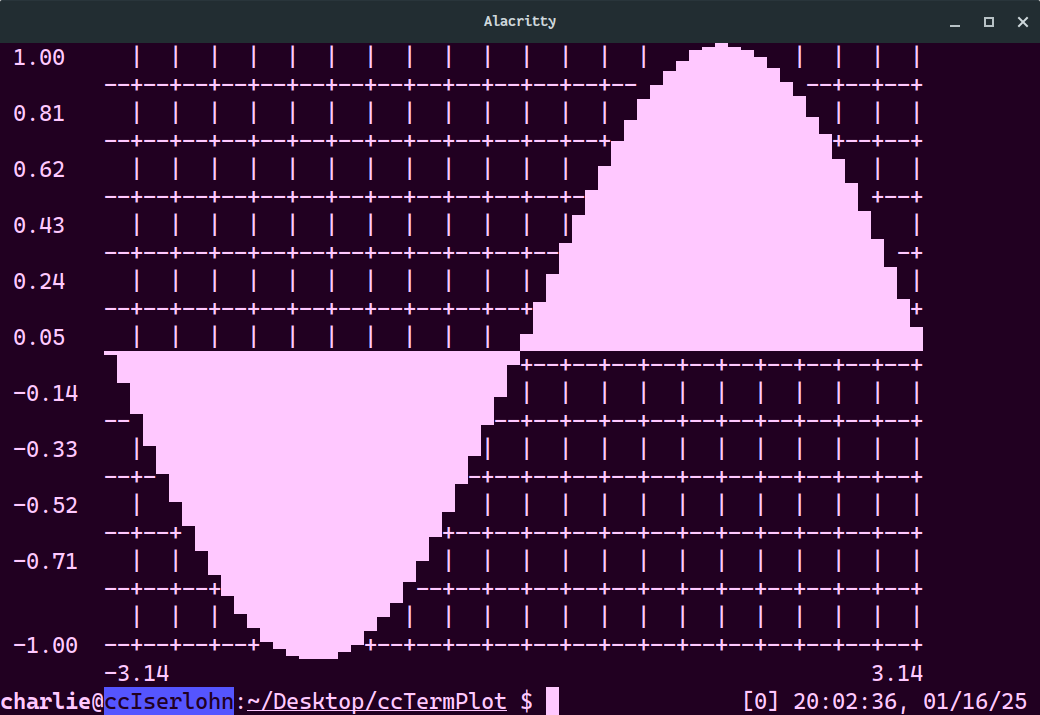
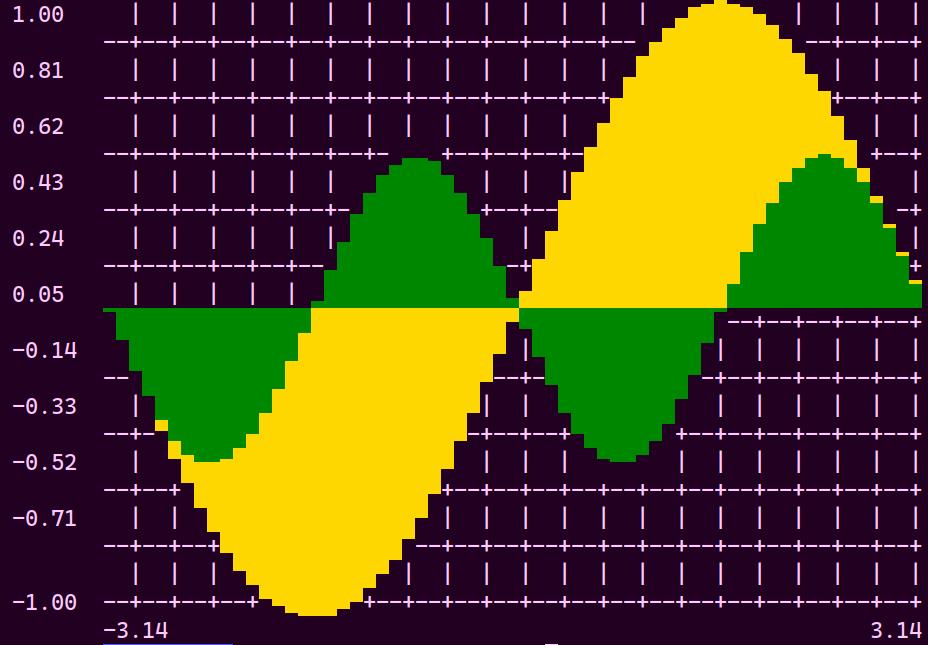
Updated shell preview picture & command in README

diff --git a/README.md b/README.md
@@ -21,7 +21,7 @@ print(
 
 ## Within Shell
 ```Bash
-seq -3.14 0.1 3.14 | awk '{print sin($1)}' | ./ccBlockPlot.py -Ccz -x0 -3.14 -xn 3.14
+seq -3.14 0.1 3.14 | awk '{printf "%f,%f\n", sin($1), -0.5 * sin(2 * $1)}' | ./ccBlockPlot.py -Cz -x0 -3.14 -xn 3.14
 ```
 
 ![](pics/preview_shell.png)
